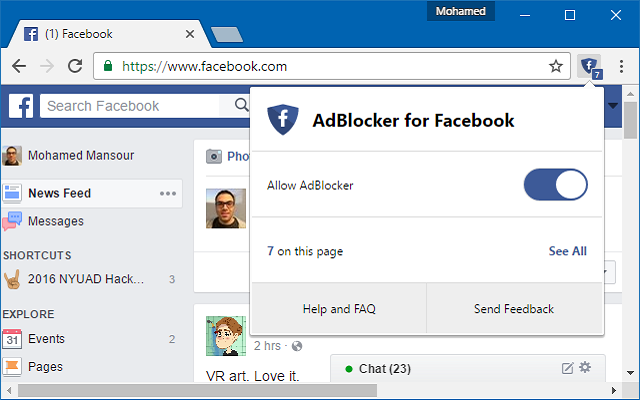
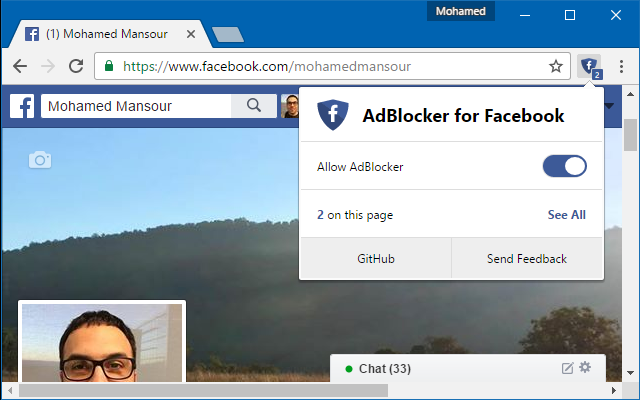
Polish

diff --git a/popup.css b/popup.css
@@ -1,5 +1,5 @@
 body {
-    width: 350px;
+    width: 301px;
     margin: 0;
 }
 
@@ -11,7 +11,7 @@ h1 {
 }
 
 header {
-    padding: 15px;
+    padding: 10px 16px;
 }
 
 header img {
@@ -20,7 +20,7 @@ header img {
 
 section {
     border-top: 1px solid #ddd;
-    padding: 15px;
+    padding: 6px 16px;
     min-height: 35px;
     display: flex;
     align-items: center;
@@ -49,17 +49,19 @@ section {
 
 footer {
     background-color: #eee;
-    height: 50px;
+    height: 40px;
     border-top: 1px solid #ddd;
 }
 
 .footer-button {
     float: left;
     height: inherit;
-    line-height: 50px;
-    width: 174px;
+    line-height: 40px;
+    width: 150px;
     text-align: center;
     cursor: pointer;
+    text-decoration: none;
+    color: black;
 }
 
 .footer-button:first-child {
@@ -96,10 +98,10 @@ input + label {
     outline: none;
     user-select: none;
     padding: 2px;
-    width: 60px;
-    height: 30px;
+    width: 40px;
+    height: 20px;
     background-color: #dddddd;
-    border-radius: 30px;
+    border-radius: 20px;
 }
 
 input + label:before,
@@ -115,12 +117,12 @@ input + label:after {
 input + label:before {
     right: 1px;
     background-color: #f1f1f1;
-    border-radius: 30px;
+    border-radius: 20px;
     transition: background 0.4s;
 }
 
 input + label:after {
-    width: 30px;
+    width: 20px;
     background-color: #fff;
     border-radius: 100%;
     transition: margin 0.4s;
@@ -132,6 +134,6 @@ input:checked + label:before {
 }
 
 input:checked + label:after {
-    margin-left: 30px;
+    margin-left: 20px;
     border: 2px solid #3D5A98;
 }

diff --git a/popup.html b/popup.html
@@ -26,7 +26,7 @@
                         <span id="total-ads">0</span> on this page
                     </div>
                     <div class="setting-control">
-                        <span id="see-all">See All</span>
+                        <a id="see-all">See All</a>
                     </div>
                 </div>
             </section>
@@ -35,8 +35,12 @@
             </section>
         </main>
         <footer>
-            <div id="footer-help" class="footer-button">Help and FAQ</div>
-            <div id="footer-feedback" class="footer-button">Send Feedback</div>
+            <a id="footer-github" class="footer-button" 
+               href="https://github.com/mohamedmansour/fblock">GitHub
+            </a>
+            <a id="footer-feedback" class="footer-button" href="https://twitter.com/mohamedmansour">
+                Send Feedback
+            </a>
         </footer>
         <script type="application/javascript" src="scripts/popup.js"></script>
     </body>

diff --git a/scripts/popup.js b/scripts/popup.js
@@ -7,7 +7,13 @@ var domSeeAllAds = document.querySelector('#see-all')
 var domSeeAllAdsList = document.querySelector('#see-all-list')
 var domTotalAds = document.querySelector('#total-ads')
 
+document.querySelector('#footer-github').addEventListener('click', onFooterButtonClicked, false)
+document.querySelector('#footer-feedback').addEventListener('click', onFooterButtonClicked, false)
 chrome.tabs.query({ active: true, currentWindow: true}, onCurrentTabFound)
+
+function onFooterButtonClicked() {
+    window.open(this.href)
+}
 
 function onCurrentTabFound(tabs) {
     if (!tabs.length)

diff --git a/scripts/facebook-adblocker.js b/scripts/facebook-adblocker.js
@@ -105,7 +105,7 @@
       removeSponsoredPost(domAdUnit, post)
     })
 
-    removeSponsoredPost(element, {debugText: 'SIDEBAR CONTAINER ADS'}, true)
+    removeSponsoredPost(element, { debugText: 'SIDEBAR CONTAINER ADS'}, true)
   }
 
   function removeSponsoredPost(element, post, supressReporting) {
@@ -121,7 +121,7 @@
 
     if (!supressReporting) {
       blockedAds.push(post)
-      chrome.runtime.sendMessage({type: 'SetBadgeNumber', data: blockedAds.length})
+      chrome.runtime.sendMessage({ type: 'SetBadgeNumber', data: blockedAds.length })
     }
   }
 

diff --git a/README.md b/README.md
@@ -31,8 +31,8 @@ Contact me on Twitter https://twitter.com/mohamedmansour.com
 
 Contributors
 ============
- * Developed by Mohamed Mansour
- * Designed by Eren Song
+- Developed by Mohamed Mansour
+- Designed by Eren Song
 
 Have fun!
 
